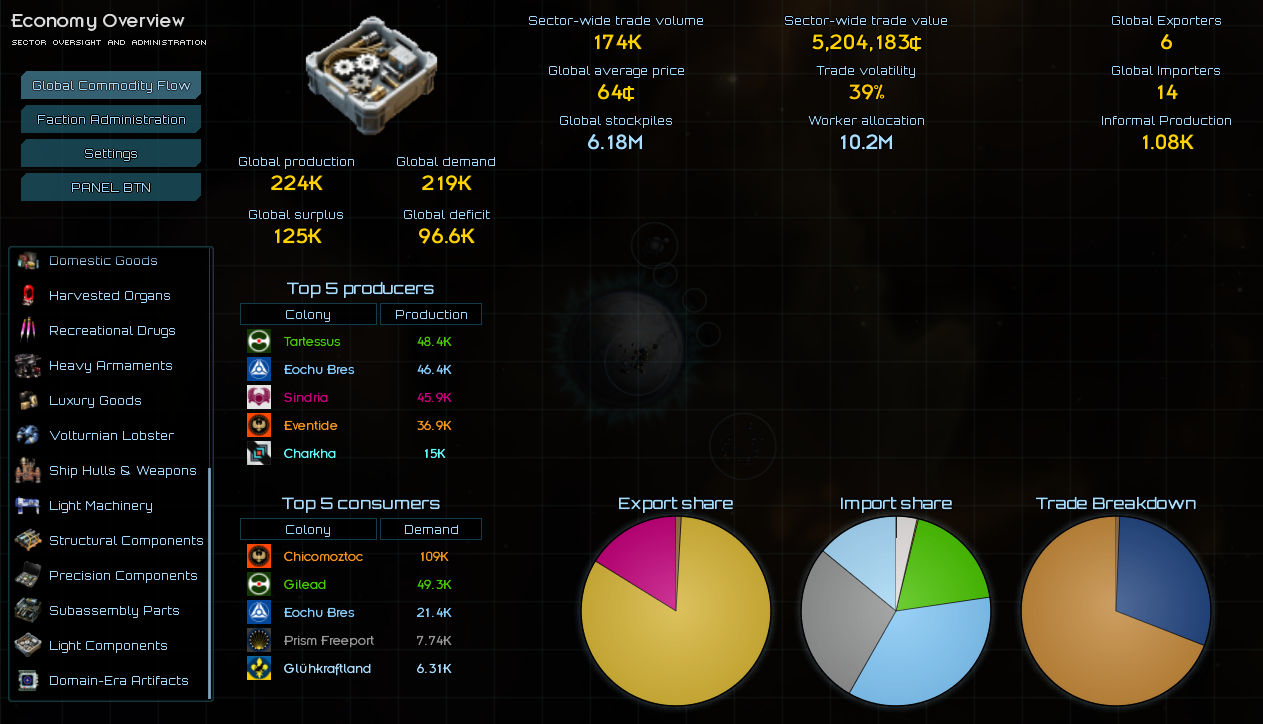
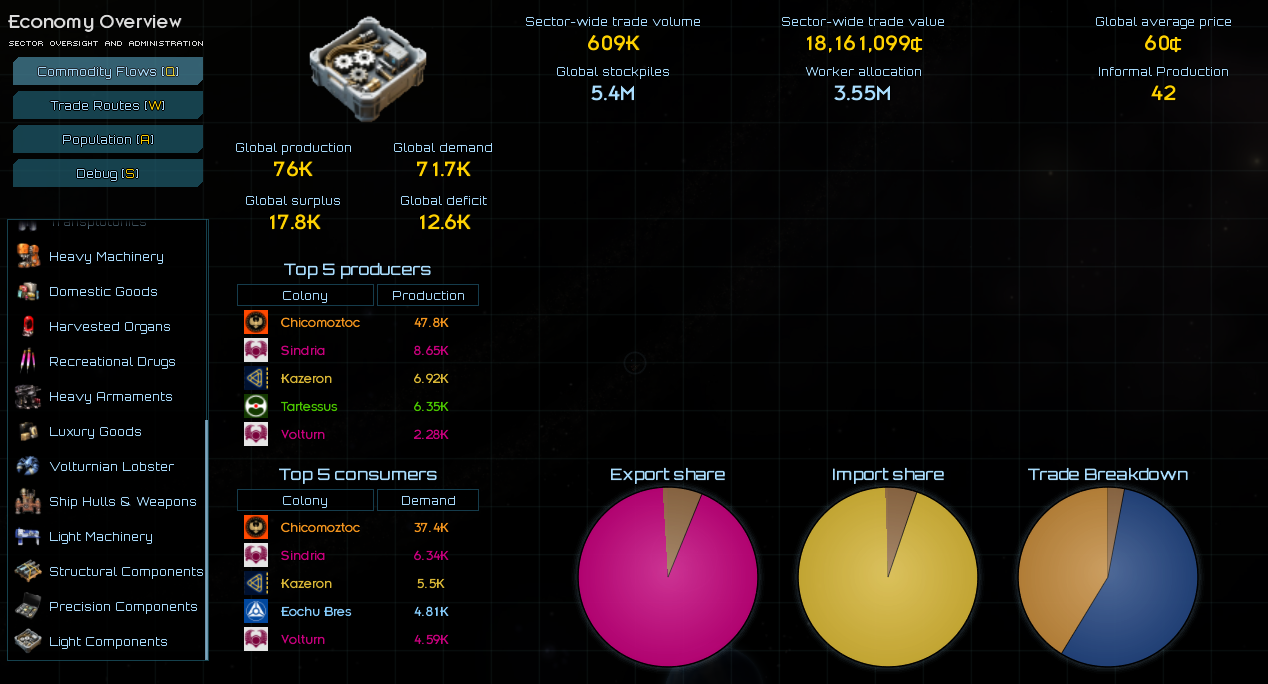
Updated forum images.

diff --git a/src/wfg/ltv_econ/ui/marketInfo/dialogs/ColonyInvDialog.java b/src/wfg/ltv_econ/ui/marketInfo/dialogs/ColonyInvDialog.java
@@ -84,7 +84,7 @@ public class ColonyInvDialog extends DialogPanel {
                 final String credits = NumFormat.formatCredit(colonyCredits);
 
                 label1 = settings.createLabel(
-                    strf("colonyBalanceTitle", credits), Fonts.ORBITRON_16
+                    strf("colonyBalanceTitle", credits), Fonts.INSIGNIA_LARGE
                 );
                 label1.setHighlight(credits);
                 label1.setHighlightColor(highlight);
@@ -110,7 +110,7 @@ public class ColonyInvDialog extends DialogPanel {
                 final String credits = NumFormat.formatCredit(playerCredits.get());
 
                 label1 = settings.createLabel(
-                    strf("playerBalanceTitle", credits), Fonts.ORBITRON_16
+                    strf("playerBalanceTitle", credits), Fonts.INSIGNIA_LARGE
                 );
                 label1.setHighlight(credits);
                 label1.setHighlightColor(highlight);
@@ -137,7 +137,7 @@ public class ColonyInvDialog extends DialogPanel {
                 final String ratio = Math.round(data.playerProfitRatio * 100) + "%";
 
                 label1 = settings.createLabel(
-                    strf("autoTransferTitle", ratio), Fonts.ORBITRON_16
+                    strf("autoTransferTitle", ratio), Fonts.INSIGNIA_LARGE
                 );
                 label1.setHighlight(ratio);
                 label1.setHighlightColor(base);
@@ -227,19 +227,13 @@ public class ColonyInvDialog extends DialogPanel {
 
             colonyLbl.setText(strf("colonyBalanceTitle", NumFormat.formatCredit(colonyCred)));
             colonyLbl.setHighlight(NumFormat.formatCredit(colonyCred));
-            colonyLbl.autoSizeToWidth(colonyLbl.computeTextWidth(colonyLbl.getText()));
-            colonyCreditPanel.getPos().setSize(colonyLbl.getPosition().getWidth(), sliderH);
 
             playerLbl.setText(strf("playerBalanceTitle", NumFormat.formatCredit(playerCred)));
             playerLbl.setHighlight(NumFormat.formatCredit(playerCred));
-            playerLbl.autoSizeToWidth(playerLbl.computeTextWidth(playerLbl.getText()));
-            playerCreditPanel.getPos().setSize(playerLbl.getPosition().getWidth(), sliderH);
 
             if (data != null) {
                 profitLbl.setText(strf("autoTransferTitle", profitRatio + "%"));
                 profitLbl.setHighlight(profitRatio + "%");
-                profitLbl.autoSizeToWidth(profitLbl.computeTextWidth(profitLbl.getText()));
-                playerProfitPanel.getPos().setSize(profitLbl.getPosition().getWidth(), sliderH);
             }
         };
 
@@ -289,11 +283,11 @@ public class ColonyInvDialog extends DialogPanel {
             "", 55, null, true, false, 1,
             str("uiTableCommodityTitle"), 150, null, true, true, 1,
             str("uiTableStored"), 95, null, false, false, -1,
-            str("uiTableConsumed"), 100, str("uiTableConsumedTpTxt"), false, false, -1,
-            str("uiTableBaseProd"), 140, str("uiTableBaseProdTpTxt"), false, false, -1,
-            str("uiTableRealProd"), 140, str("uiTableRealProdTpTxt"), false, false, -1,
-            str("uiTableBaseBalance"), 130, str("uiTableBaseBalanceTpTxt"), false, false, -1,
-            str("uiTableRealBalance"), 120, str("uiTableRealBalanceTpTxt"), false, false, -1
+            str("uiTableConsumed"), 110, str("uiTableConsumedTpTxt"), false, false, -1,
+            str("uiTableBaseProd"), 130, str("uiTableBaseProdTpTxt"), false, false, -1,
+            str("uiTableRealProd"), 130, str("uiTableRealProdTpTxt"), false, false, -1,
+            str("uiTableBaseBalance"), 135, str("uiTableBaseBalanceTpTxt"), false, false, -1,
+            str("uiTableRealBalance"), 125, str("uiTableRealBalanceTpTxt"), false, false, -1
         );
 
         for (CommoditySpecAPI com : EconomyConstants.econCommoditySpecs) {
@@ -319,14 +313,22 @@ public class ColonyInvDialog extends DialogPanel {
                 negative : realBalance > 0 ?
                 positive : text_color;
 
+            boolean failed = false;
+            try {
+                Global.getSettings().loadFont("graphics/fonts/insignia17LTaa.fnt");
+            } catch (Exception e) {
+                failed = true;
+            }
+            final String numFont = failed ? Fonts.DEFAULT_SMALL : "graphics/fonts/insignia17LTaa.fnt";
+
             table.addCell(comIcon, cellAlg.MID, null, null);
             table.addCell(com.getName(), cellAlg.LEFT, com.getName(), base);
-            table.addCell(NumFormat.engNotate(stored), cellAlg.LEFTOPAD, stored, null);
-            table.addCell(NumFormat.engNotate(demand), cellAlg.LEFTOPAD, demand, negative);
-            table.addCell(NumFormat.engNotate(baseProd), cellAlg.LEFTOPAD, baseProd, highlight);
-            table.addCell(NumFormat.engNotate(modifiedProd), cellAlg.LEFTOPAD, modifiedProd, highlight);
-            table.addCell(NumFormat.engNotate(baseBalance), cellAlg.LEFTOPAD, baseBalance, baseBlcColor);
-            table.addCell(NumFormat.engNotate(realBalance), cellAlg.LEFTOPAD, realBalance, realBlcColor);
+            table.addCell(settings.createLabel(NumFormat.engNotate(stored), numFont), cellAlg.LEFTOPAD, stored, null);
+            table.addCell(settings.createLabel(NumFormat.engNotate(demand), numFont), cellAlg.LEFTOPAD, demand, negative);
+            table.addCell(settings.createLabel(NumFormat.engNotate(baseProd), numFont), cellAlg.LEFTOPAD, baseProd, highlight);
+            table.addCell(settings.createLabel(NumFormat.engNotate(modifiedProd), numFont), cellAlg.LEFTOPAD, modifiedProd, highlight);
+            table.addCell(settings.createLabel(NumFormat.engNotate(baseBalance), numFont), cellAlg.LEFTOPAD, baseBalance, baseBlcColor);
+            table.addCell(settings.createLabel(NumFormat.engNotate(realBalance), numFont), cellAlg.LEFTOPAD, realBalance, realBlcColor);
 
             final ClickHandler<TableRow> rowSelectedRun = (row, isLeftClick) -> {
                 new SetNotExportableStockDialog(cell).show(0.3f, 0.3f);